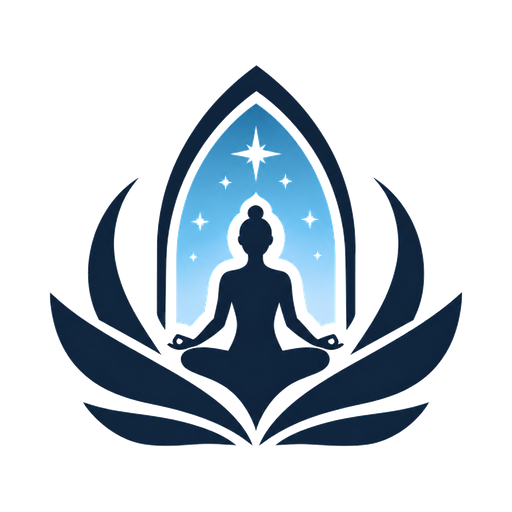
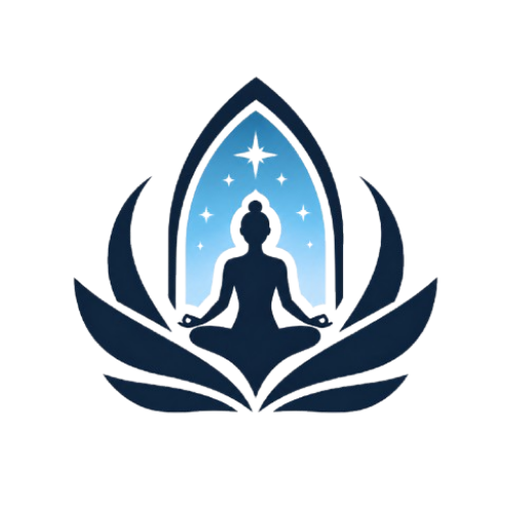
Angoli più arrotondati su card e pulsanti, icone aggiornate
Coerenza visiva su tutto il sito: raggi più morbidi su card di
ritiri/corsi/blog, pulsanti, banner cookie e badge, oltre alla
ricompressione di icon.png e apple-icon.png.

Changed region(s): [[0.0938, 0.125, 0.9062, 0.875], [0.5312, 0.3438, 0.5625, 0.375], [0.4375, 0.3438, 0.4688, 0.375]]

diff --git a/src/app/(public)/metodo/page.tsx b/src/app/(public)/metodo/page.tsx
@@ -114,9 +114,9 @@ export default function MetodoPage() {
       <section className="mx-auto max-w-6xl px-4 pt-14 sm:px-6">
         <div className="grid gap-6 sm:grid-cols-2">
           {processes.map((p) => (
-            <div key={p.number} className="relative overflow-hidden rounded-2xl border border-border bg-card p-7 shadow-soft-sm">
+            <div key={p.number} className="relative overflow-hidden rounded-3xl border border-border bg-card p-7 shadow-soft-sm">
               <span className="font-heading text-5xl font-semibold text-primary/10">{p.number}</span>
-              <span className="absolute top-7 right-7 inline-flex h-11 w-11 items-center justify-center rounded-xl bg-primary/10 text-primary">
+              <span className="absolute top-7 right-7 inline-flex h-11 w-11 items-center justify-center rounded-2xl bg-primary/10 text-primary">
                 <p.icon className="h-5 w-5" aria-hidden="true" />
               </span>
               <h2 className="mt-2 font-heading text-xl font-semibold text-foreground">{p.title}</h2>
@@ -130,7 +130,7 @@ export default function MetodoPage() {
 
       <section className="mx-auto max-w-6xl px-4 pt-14 sm:px-6">
         <div className="grid gap-4 sm:grid-cols-2">
-          <div className="relative h-64 overflow-hidden rounded-2xl shadow-soft-md sm:h-96">
+          <div className="relative h-64 overflow-hidden rounded-3xl shadow-soft-md sm:h-96">
             <Image
               src="/images/tina-posa-galavasana-mare.jpg"
               alt="Tina Mastandrea in una posizione yoga avanzata sul mare"
@@ -139,7 +139,7 @@ export default function MetodoPage() {
               className="object-cover"
             />
           </div>
-          <div className="relative h-64 overflow-hidden rounded-2xl shadow-soft-md sm:h-96">
+          <div className="relative h-64 overflow-hidden rounded-3xl shadow-soft-md sm:h-96">
             <Image
               src="/images/meditazione-neuroscienza.jpg"
               alt="Meditazione e neuroscienze nel Metodo Yoga Stargate"
@@ -151,7 +151,7 @@ export default function MetodoPage() {
         </div>
       </section>
 
-      <section className="mx-auto max-w-6xl px-4 py-16 sm:px-6">
+      <section className="mx-auto max-w-6xl px-4 py-20 sm:px-6">
         <div className="grid gap-10 lg:grid-cols-2">
           <div>
             <h2 className="font-heading text-2xl font-semibold text-foreground sm:text-3xl">A chi è rivolto</h2>
@@ -174,7 +174,7 @@ export default function MetodoPage() {
                 </li>
               ))}
             </ul>
-            <div className="mt-6 inline-flex items-start gap-2 rounded-xl border border-border bg-muted px-4 py-3 text-xs text-foreground/60">
+            <div className="mt-6 inline-flex items-start gap-2 rounded-2xl border border-border bg-muted px-4 py-3 text-xs text-foreground/60">
               <Award className="mt-0.5 h-4 w-4 shrink-0 text-primary" aria-hidden="true" />
               Ogni modulo rilascia una Certificazione Specifica Yoga Stargate. Il percorso richiede un impegno
               sincero ed è controindicato in presenza di condizioni psicofisiche importanti, epilessia o
@@ -185,7 +185,7 @@ export default function MetodoPage() {
 
         <div
           id="richiedi"
-          className="mt-14 scroll-mt-24 rounded-2xl border border-border bg-card p-8 shadow-soft-sm sm:p-10"
+          className="mt-14 scroll-mt-24 rounded-3xl border border-border bg-card p-8 shadow-soft-sm sm:p-10"
         >
           <div className="grid gap-8 lg:grid-cols-[1.1fr_1fr] lg:items-start">
             <div>

diff --git a/src/components/site/ChatWidget.tsx b/src/components/site/ChatWidget.tsx
@@ -76,7 +76,7 @@ export default function ChatWidget({ variant }: { variant: "public" | "admin" })
             animate={{ opacity: 1, y: 0, scale: 1 }}
             exit={{ opacity: 0, y: 16, scale: 0.97 }}
             transition={{ duration: 0.2 }}
-            className={`fixed bottom-24 ${positionClass} z-[90] flex h-[28rem] w-[min(22rem,calc(100vw-3rem))] flex-col overflow-hidden rounded-2xl border border-border bg-card shadow-soft-xl`}
+            className={`fixed bottom-24 ${positionClass} z-[90] flex h-[28rem] w-[min(22rem,calc(100vw-3rem))] flex-col overflow-hidden rounded-3xl border border-border bg-card shadow-soft-xl`}
           >
             <div className="flex items-center gap-2 border-b border-border bg-primary px-4 py-3 text-primary-foreground">
               <Sparkles className="h-4 w-4" aria-hidden="true" />
@@ -86,13 +86,13 @@ export default function ChatWidget({ variant }: { variant: "public" | "admin" })
             </div>
 
             <div ref={scrollRef} className="flex-1 space-y-3 overflow-y-auto p-4">
-              <div className="max-w-[85%] rounded-2xl rounded-tl-sm bg-muted px-3.5 py-2.5 text-sm text-foreground">
+              <div className="max-w-[85%] rounded-3xl rounded-tl-sm bg-muted px-3.5 py-2.5 text-sm text-foreground">
                 {greeting}
               </div>
               {messages.map((m, i) => (
                 <div
                   key={i}
-                  className={`max-w-[85%] rounded-2xl px-3.5 py-2.5 text-sm ${
+                  className={`max-w-[85%] rounded-3xl px-3.5 py-2.5 text-sm ${
                     m.role === "user"
                       ? "ml-auto rounded-tr-sm bg-primary text-primary-foreground"
                       : "rounded-tl-sm bg-muted text-foreground"
@@ -102,7 +102,7 @@ export default function ChatWidget({ variant }: { variant: "public" | "admin" })
                 </div>
               ))}
               {loading && (
-                <div className="flex max-w-[85%] items-center gap-2 rounded-2xl rounded-tl-sm bg-muted px-3.5 py-2.5 text-sm text-foreground/60">
+                <div className="flex max-w-[85%] items-center gap-2 rounded-3xl rounded-tl-sm bg-muted px-3.5 py-2.5 text-sm text-foreground/60">
                   <Loader2 className="h-3.5 w-3.5 animate-spin" />
                   Sto scrivendo...
                 </div>
@@ -122,7 +122,7 @@ export default function ChatWidget({ variant }: { variant: "public" | "admin" })
                 type="submit"
                 disabled={loading || !input.trim()}
                 aria-label="Invia messaggio"
-                className="flex h-9 w-9 shrink-0 cursor-pointer items-center justify-center rounded-lg bg-primary text-primary-foreground disabled:cursor-not-allowed disabled:opacity-50"
+                className="flex h-9 w-9 shrink-0 cursor-pointer items-center justify-center rounded-full bg-primary text-primary-foreground disabled:cursor-not-allowed disabled:opacity-50"
               >
                 <Send className="h-4 w-4" />
               </button>

diff --git a/src/components/site/CourseCard.tsx b/src/components/site/CourseCard.tsx
@@ -22,10 +22,10 @@ export default function CourseCard({ course }: { course: CourseCardData }) {
     <motion.article
       whileHover={{ y: -6 }}
       transition={{ duration: 0.2, ease: "easeOut" }}
-      className="group overflow-hidden rounded-2xl border border-border bg-card shadow-soft-sm"
+      className="group flex h-full flex-col overflow-hidden rounded-3xl border border-border bg-card shadow-soft-sm"
     >
-      <Link href={`/corsi/${course.slug}`} className="block">
-        <div className="relative h-52 overflow-hidden bg-gradient-to-br from-primary/20 via-secondary/40 to-warm-surface">
+      <Link href={`/corsi/${course.slug}`} className="flex h-full flex-col">
+        <div className="relative h-52 shrink-0 overflow-hidden bg-gradient-to-br from-primary/20 via-secondary/40 to-warm-surface">
           {course.image ? (
             <Image
               src={course.image}
@@ -38,18 +38,23 @@ export default function CourseCard({ course }: { course: CourseCardData }) {
             <PlayCircle className="absolute inset-0 m-auto h-10 w-10 text-primary/70" aria-hidden="true" />
           )}
         </div>
-        <div className="p-5">
+        {/* flex-col + line-clamp: qualunque lunghezza scrivano titolo ed estratto nel pannello
+            admin, la scheda resta della stessa altezza delle vicine nella griglia — il testo
+            in eccesso si tronca con "…" invece di allungare la scheda o spingere via il resto. */}
+        <div className="flex flex-1 flex-col p-5">
           <div className="mb-2 flex items-center justify-between gap-2">
             <LevelBadge requiredLevel={course.requiredLevel} price={course.price} />
             <span className="text-xs font-medium text-foreground/60">
               {course.lessonCount} {course.lessonCount === 1 ? "lezione" : "lezioni"}
             </span>
           </div>
-          <p className="text-xs font-semibold uppercase tracking-wide text-primary/70">{course.category}</p>
-          <h3 className="mt-1 font-heading text-lg font-semibold text-foreground group-hover:text-primary">
+          <p className="line-clamp-1 text-xs font-semibold uppercase tracking-wide text-primary/70">
+            {course.category}
+          </p>
+          <h3 className="mt-1 line-clamp-2 font-heading text-lg font-semibold text-foreground group-hover:text-primary">
             {course.title}
           </h3>
-          <p className="mt-2 line-clamp-2 text-sm text-foreground/70">{course.excerpt}</p>
+          <p className="mt-2 line-clamp-3 text-sm text-foreground/70">{course.excerpt}</p>
         </div>
       </Link>
     </motion.article>

diff --git a/src/components/site/LevelLock.tsx b/src/components/site/LevelLock.tsx
@@ -58,7 +58,7 @@ export function PurchaseLockedNotice({
   loggedIn: boolean;
 }) {
   return (
-    <div className="flex flex-col items-center gap-3 rounded-2xl border border-dashed border-border bg-muted/60 px-6 py-10 text-center">
+    <div className="flex flex-col items-center gap-3 rounded-3xl border border-dashed border-border bg-muted/60 px-6 py-10 text-center">
       <Lock className="h-8 w-8 text-primary" aria-hidden="true" />
       <p className="font-heading text-lg font-semibold text-foreground">Contenuto a pagamento — {price.toFixed(2)}€</p>
       {loggedIn ? (
@@ -69,7 +69,7 @@ export function PurchaseLockedNotice({
       ) : (
         <>
           <p className="max-w-sm text-sm text-foreground/70">Accedi o registrati per acquistare questo corso.</p>
-          <a href="/login" className="mt-1 cursor-pointer rounded-lg bg-primary px-5 py-2 text-sm font-semibold text-primary-foreground">
+          <a href="/login" className="mt-1 cursor-pointer rounded-full bg-primary px-5 py-2 text-sm font-semibold text-primary-foreground">
             Accedi
           </a>
         </>
@@ -80,7 +80,7 @@ export function PurchaseLockedNotice({
 
 export function LevelLockedNotice({ requiredLevel, loggedIn }: { requiredLevel: number; loggedIn: boolean }) {
   return (
-    <div className="flex flex-col items-center gap-3 rounded-2xl border border-dashed border-border bg-muted/60 px-6 py-10 text-center">
+    <div className="flex flex-col items-center gap-3 rounded-3xl border border-dashed border-border bg-muted/60 px-6 py-10 text-center">
       <Lock className="h-8 w-8 text-primary" aria-hidden="true" />
       <p className="font-heading text-lg font-semibold text-foreground">
         Contenuto riservato al livello {levelLabel(requiredLevel)}
@@ -92,11 +92,11 @@ export function LevelLockedNotice({ requiredLevel, loggedIn }: { requiredLevel: 
       </p>
       <div className="mt-1 flex gap-3">
         {!loggedIn && (
-          <a href="/login" className="cursor-pointer rounded-lg bg-primary px-5 py-2 text-sm font-semibold text-primary-foreground">
+          <a href="/login" className="cursor-pointer rounded-full bg-primary px-5 py-2 text-sm font-semibold text-primary-foreground">
             Accedi
           </a>
         )}
-        <a href="/contatti" className="cursor-pointer rounded-lg border border-border bg-card px-5 py-2 text-sm font-semibold text-primary shadow-soft-sm">
+        <a href="/contatti" className="cursor-pointer rounded-full border border-border bg-card px-5 py-2 text-sm font-semibold text-primary shadow-soft-sm">
           Contattaci
         </a>
       </div>

diff --git a/src/app/(public)/contatti/page.tsx b/src/app/(public)/contatti/page.tsx
@@ -17,7 +17,7 @@ export default function ContattiPage() {
       <section className="mx-auto max-w-5xl px-4 pb-20 sm:px-6">
         <div className="grid gap-10 lg:grid-cols-[1fr_1.3fr]">
           <div className="space-y-5">
-            <div className="rounded-2xl border border-border bg-card p-6 shadow-soft-sm">
+            <div className="rounded-3xl border border-border bg-card p-6 shadow-soft-sm">
               <div className="flex items-start gap-3">
                 <MapPin className="mt-0.5 h-5 w-5 text-primary" aria-hidden="true" />
                 <div>
@@ -26,7 +26,7 @@ export default function ContattiPage() {
                 </div>
               </div>
             </div>
-            <div className="rounded-2xl border border-border bg-card p-6 shadow-soft-sm">
+            <div className="rounded-3xl border border-border bg-card p-6 shadow-soft-sm">
               <div className="flex items-start gap-3">
                 <Phone className="mt-0.5 h-5 w-5 text-primary" aria-hidden="true" />
                 <div>
@@ -37,7 +37,7 @@ export default function ContattiPage() {
                 </div>
               </div>
             </div>
-            <div className="rounded-2xl border border-border bg-card p-6 shadow-soft-sm">
+            <div className="rounded-3xl border border-border bg-card p-6 shadow-soft-sm">
               <div className="flex items-start gap-3">
                 <Mail className="mt-0.5 h-5 w-5 text-primary" aria-hidden="true" />
                 <div>
@@ -48,7 +48,7 @@ export default function ContattiPage() {
                 </div>
               </div>
             </div>
-            <div className="rounded-2xl border border-border bg-card p-6 shadow-soft-sm">
+            <div className="rounded-3xl border border-border bg-card p-6 shadow-soft-sm">
               <div className="flex items-start gap-3">
                 <Clock className="mt-0.5 h-5 w-5 text-primary" aria-hidden="true" />
                 <div>
@@ -59,7 +59,7 @@ export default function ContattiPage() {
             </div>
           </div>
 
-          <div className="rounded-2xl border border-border bg-card p-6 shadow-soft-sm sm:p-8">
+          <div className="rounded-3xl border border-border bg-card p-6 shadow-soft-sm sm:p-8">
             <h2 className="font-heading text-lg font-semibold text-foreground">Inviaci un messaggio</h2>
             <div className="mt-5">
               <LeadForm submitLabel="Invia messaggio" />

diff --git a/src/components/site/RetreatCard.tsx b/src/components/site/RetreatCard.tsx
@@ -35,10 +35,10 @@ export default function RetreatCard({ retreat }: { retreat: RetreatCardData }) {
     <motion.article
       whileHover={{ y: -6 }}
       transition={{ duration: 0.2, ease: "easeOut" }}
-      className="group overflow-hidden rounded-2xl border border-border bg-card shadow-soft-sm"
+      className="group flex h-full flex-col overflow-hidden rounded-3xl border border-border bg-card shadow-soft-sm"
     >
-      <Link href={`/ritiri/${retreat.slug}`} className="block">
-        <div className="relative h-52 overflow-hidden bg-gradient-to-br from-secondary/50 via-primary/20 to-warm-surface">
+      <Link href={`/ritiri/${retreat.slug}`} className="flex h-full flex-col">
+        <div className="relative h-52 shrink-0 overflow-hidden bg-gradient-to-br from-secondary/50 via-primary/20 to-warm-surface">
           {retreat.image ? (
             <Image
               src={retreat.image}
@@ -53,17 +53,20 @@ export default function RetreatCard({ retreat }: { retreat: RetreatCardData }) {
             </span>
           )}
         </div>
-        <div className="p-5">
+        {/* flex-col + line-clamp: qualunque lunghezza scrivano titolo ed estratto nel pannello
+            admin, la scheda resta della stessa altezza delle vicine nella griglia — il testo
+            in eccesso si tronca con "…" invece di allungare la scheda o spingere via il resto. */}
+        <div className="flex flex-1 flex-col p-5">
           <div className="mb-2 flex items-center justify-between gap-2">
             <LevelBadge requiredLevel={retreat.requiredLevel} />
             {retreat.price != null && (
               <span className="text-sm font-semibold text-foreground">da €{retreat.price}</span>
             )}
           </div>
-          <h3 className="font-heading text-lg font-semibold text-foreground group-hover:text-primary">
+          <h3 className="line-clamp-2 font-heading text-lg font-semibold text-foreground group-hover:text-primary">
             {retreat.title}
           </h3>
-          <p className="mt-2 line-clamp-2 text-sm text-foreground/70">{retreat.excerpt}</p>
+          <p className="mt-2 line-clamp-3 text-sm text-foreground/70">{retreat.excerpt}</p>
           <div className="mt-4 flex flex-wrap items-center gap-x-4 gap-y-1 text-xs text-foreground/60">
             <span className="flex items-center gap-1">
               <MapPin className="h-3.5 w-3.5" aria-hidden="true" />

diff --git a/src/app/(public)/ritiri/page.tsx b/src/app/(public)/ritiri/page.tsx
@@ -8,8 +8,8 @@ import { prisma } from "@/lib/prisma";
 import { firstImage } from "@/lib/images";
 
 export const metadata: Metadata = {
-  title: "Ritiri & Viaggi",
-  description: "Ritiri & Viaggi Yoga Stargate: esperienze immersive in Italia e nel mondo con Tina Mastandrea — mental reset, riconnessione al sé e formazione.",
+  title: "Eventi & Ritiri",
+  description: "Eventi & Ritiri Yoga Stargate: esperienze immersive in Italia e nel mondo con Tina Mastandrea — mental reset, riconnessione al sé e formazione.",
   alternates: { canonical: "/ritiri" },
 };
 
@@ -44,8 +44,8 @@ export default async function RitiriPage({
   return (
     <>
       <Hero
-        eyebrow="Ritiri & Viaggi"
-        title="Ritiri & Viaggi Yoga Stargate"
+        eyebrow="Eventi & Ritiri"
+        title="Eventi & Ritiri Yoga Stargate"
         subtitle="Esperienze immersive per riattivare la tua frequenza: mental reset, riconnessione al sé e formazione, in Italia e nel mondo."
       />
 
@@ -82,7 +82,7 @@ export default async function RitiriPage({
           </div>
         )}
 
-        <div id="gruppi" className="mt-16 scroll-mt-24 rounded-2xl border border-border bg-card p-6 sm:p-10">
+        <div id="gruppi" className="mt-16 scroll-mt-24 rounded-3xl border border-border bg-card p-6 sm:p-10">
           <div className="mx-auto max-w-2xl text-center">
             <span className="mx-auto flex h-12 w-12 items-center justify-center rounded-full bg-primary/10 text-primary">
               <Users className="h-6 w-6" aria-hidden="true" />

diff --git a/src/app/(public)/cerca/page.tsx b/src/app/(public)/cerca/page.tsx
@@ -21,7 +21,7 @@ export default async function CercaPage({ searchParams }: { searchParams: Promis
 
   if (!query) {
     return (
-      <div className="mx-auto max-w-2xl px-4 py-20 text-center sm:px-6">
+      <div className="mx-auto max-w-2xl px-4 py-24 text-center sm:px-6">
         <h1 className="font-heading text-3xl font-semibold text-foreground">Cerca nel sito</h1>
         <p className="mt-3 text-sm text-foreground/60">Trova corsi, ritiri e articoli del blog.</p>
         <div className="mt-8">
@@ -85,7 +85,7 @@ export default async function CercaPage({ searchParams }: { searchParams: Promis
   }));
 
   return (
-    <div className="mx-auto max-w-6xl px-4 py-16 sm:px-6">
+    <div className="mx-auto max-w-6xl px-4 py-20 sm:px-6">
       <h1 className="font-heading text-2xl font-semibold text-foreground">Risultati per &ldquo;{query}&rdquo;</h1>
       <p className="mt-1 text-sm text-foreground/60">{totalResults} risultati trovati</p>
       <div className="mt-6 max-w-lg">

diff --git a/src/app/(public)/login/page.tsx b/src/app/(public)/login/page.tsx
@@ -18,12 +18,12 @@ export default async function LoginPage({ searchParams }: { searchParams: Promis
   const { error } = await searchParams;
 
   return (
-    <section className="mx-auto max-w-md px-4 py-20 sm:px-6">
+    <section className="mx-auto max-w-md px-4 py-24 sm:px-6">
       <h1 className="text-center font-heading text-3xl font-semibold text-foreground">Bentornata/o</h1>
       <p className="mt-2 text-center text-sm text-foreground/70">
         Accedi per continuare il tuo percorso, tracciare i progressi e sbloccare i contenuti del tuo livello.
       </p>
-      <div className="mt-8 rounded-2xl border border-border bg-card p-6 shadow-soft-sm sm:p-8">
+      <div className="mt-8 rounded-3xl border border-border bg-card p-6 shadow-soft-sm sm:p-8">
         {error && GOOGLE_ERRORS[error] && (
           <p className="mb-4 rounded-lg border border-destructive/30 bg-destructive/5 px-3 py-2 text-sm text-destructive">
             {GOOGLE_ERRORS[error]}

diff --git a/src/app/(public)/cookie/page.tsx b/src/app/(public)/cookie/page.tsx
@@ -24,7 +24,7 @@ const cookies = [
 
 export default function CookiePage() {
   return (
-    <article className="mx-auto max-w-3xl px-4 py-16 sm:px-6">
+    <article className="mx-auto max-w-3xl px-4 py-20 sm:px-6">
       <p className="text-xs font-semibold tracking-wide text-primary uppercase">Informativa</p>
       <h1 className="mt-2 font-heading text-3xl font-semibold text-foreground">Cookie Policy</h1>
       <p className="mt-2 text-sm text-foreground/60">Ultimo aggiornamento: agosto 2026</p>
@@ -36,7 +36,7 @@ export default function CookiePage() {
           tracciamento di terze parti.
         </p>
 
-        <div className="overflow-x-auto rounded-2xl border border-border">
+        <div className="overflow-x-auto rounded-3xl border border-border">
           <table className="w-full text-left text-sm">
             <thead className="border-b border-border bg-muted/50 text-xs uppercase text-foreground/50">
               <tr>

diff --git a/src/components/site/CookieBanner.tsx b/src/components/site/CookieBanner.tsx
@@ -52,14 +52,14 @@ export default function CookieBanner() {
               <button
                 type="button"
                 onClick={() => choose("rejected")}
-                className="cursor-pointer rounded-lg border border-border px-4 py-2 text-sm font-semibold text-foreground/70 hover:border-primary"
+                className="cursor-pointer rounded-full border border-border px-4 py-2 text-sm font-semibold text-foreground/70 hover:border-primary"
               >
                 Rifiuta
               </button>
               <button
                 type="button"
                 onClick={() => choose("accepted")}
-                className="cursor-pointer rounded-lg bg-primary px-4 py-2 text-sm font-semibold text-primary-foreground"
+                className="cursor-pointer rounded-full bg-primary px-4 py-2 text-sm font-semibold text-primary-foreground"
               >
                 Accetta
               </button>

diff --git a/src/app/(public)/registrati/page.tsx b/src/app/(public)/registrati/page.tsx
@@ -11,12 +11,12 @@ export const metadata: Metadata = {
 
 export default function RegistratiPage() {
   return (
-    <section className="mx-auto max-w-md px-4 py-20 sm:px-6">
+    <section className="mx-auto max-w-md px-4 py-24 sm:px-6">
       <h1 className="text-center font-heading text-3xl font-semibold text-foreground">Crea il tuo account</h1>
       <p className="mt-2 text-center text-sm text-foreground/70">
         Inizia il tuo percorso: partirai dal livello Base e potrai salire di livello con la pratica.
       </p>
-      <div className="mt-8 rounded-2xl border border-border bg-card p-6 shadow-soft-sm sm:p-8">
+      <div className="mt-8 rounded-3xl border border-border bg-card p-6 shadow-soft-sm sm:p-8">
         <GoogleLoginButton />
         <div className="my-5 flex items-center gap-3 text-xs text-foreground/50">
           <span className="h-px flex-1 bg-border" />
